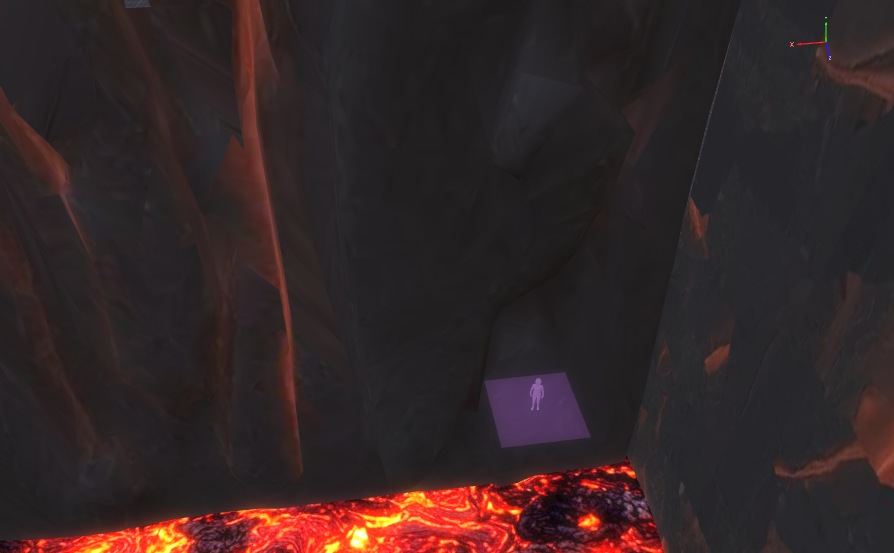
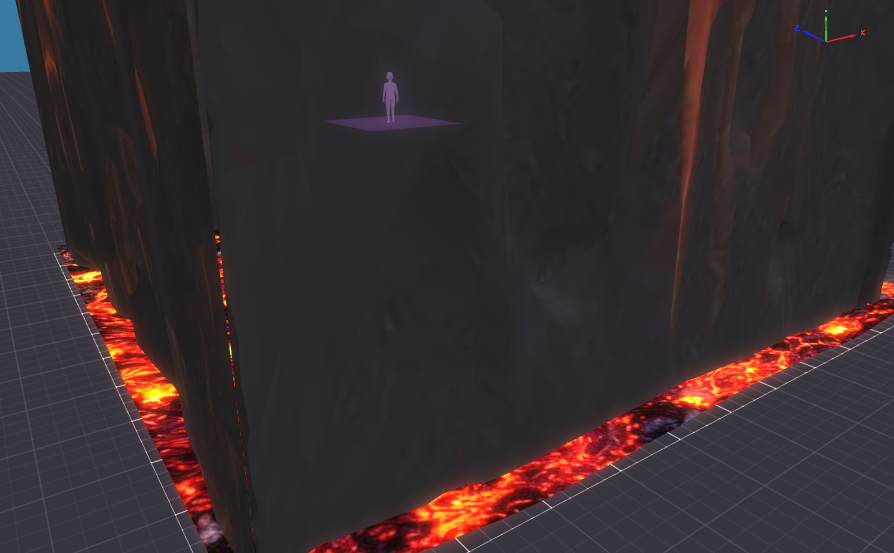
Fix practice movers freezing on the shared match clock.
Practice motion time now advances locally so platforms and hazards move during solo runs.

diff --git a/src/game.ts b/src/game.ts
@@ -893,6 +893,11 @@ function packOnFinish(located: Map<string, Vector3>) {
 }
 
 function motionTime() {
+  // Practice runs locally — don't use the shared match clock (it stays at 0 in lobby).
+  if (matchPractice && (match.phase === 'playing' || match.phase === 'won')) {
+    if (match.playStartedAt <= 0) return 0
+    return Math.max(0, (Date.now() - match.playStartedAt) / 1000)
+  }
   if (match.phase === 'playing' || match.phase === 'won') {
     if (match.phase === 'won') {
       if (match.playStartedAt <= 0) return 0
@@ -1039,8 +1044,11 @@ function applyServerMatch(dt: number) {
     } else {
       beatAge += dt
     }
-    lastClockT = clock.motionT
-    lastClockAt = Date.now()
+    // Shared match clock is idle (0) while a local practice run is active.
+    if (!matchPractice) {
+      lastClockT = clock.motionT
+      lastClockAt = Date.now()
+    }
   } else {
     beatAge += dt
   }
